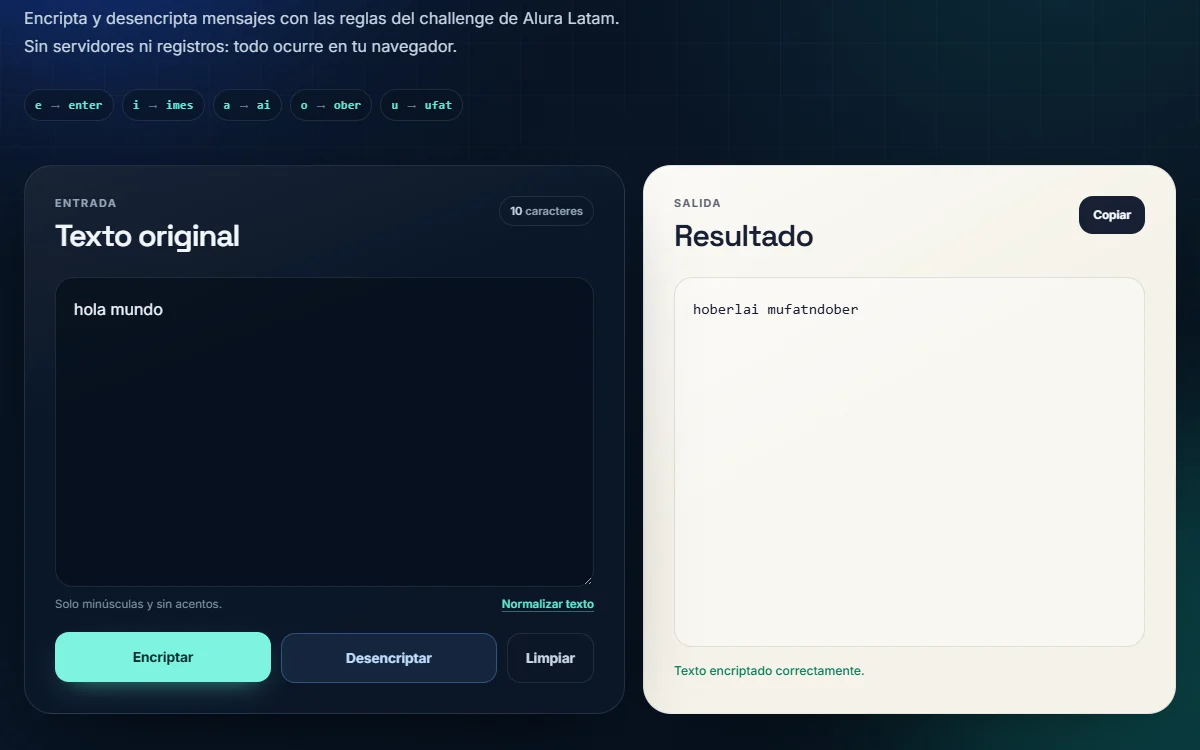
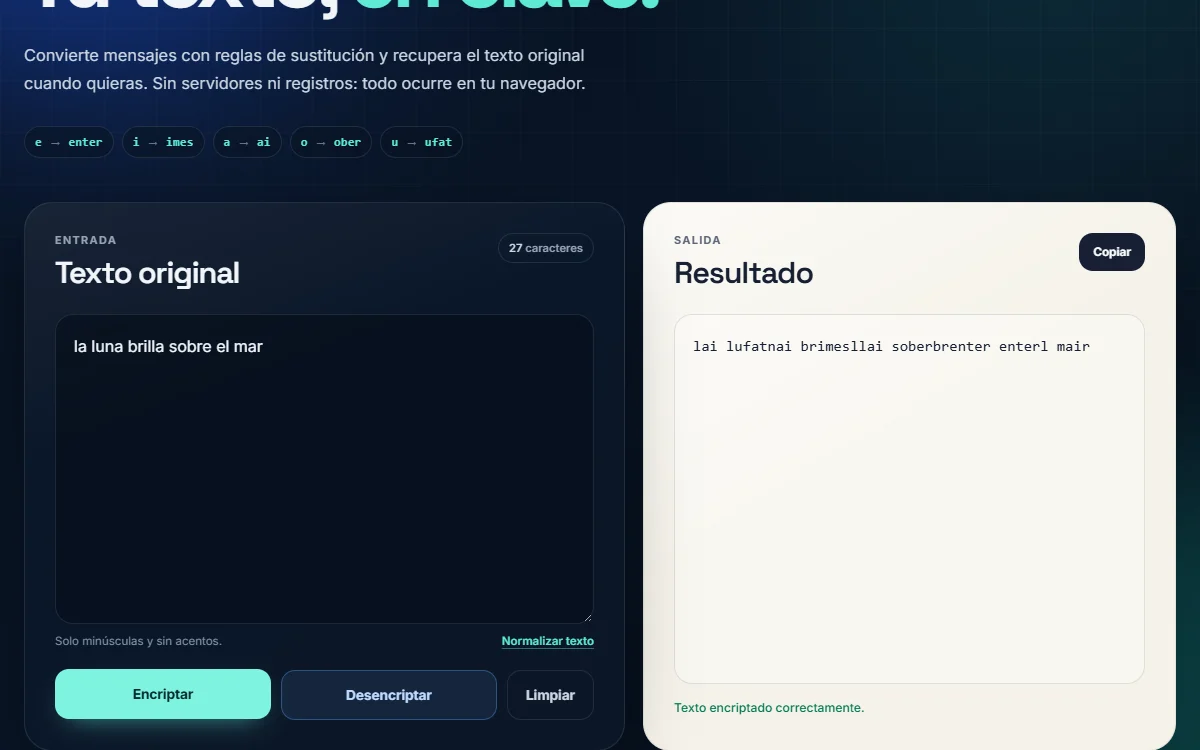
Update Encriptador demo URL and copy

diff --git a/docs/index.html b/docs/index.html
@@ -1363,10 +1363,10 @@
                   <span class="project-area">Desarrollo frontend</span>
                 </div>
                 <h3>Encriptador de texto</h3>
-                <p>Encriptador del challenge de Alura Latam con validación, normalización y copiado, en HTML, CSS y JavaScript.</p>
+                <p>Mini app en HTML, CSS y JavaScript para encriptar y desencriptar mensajes en el navegador, con validación, normalización, contador y copiado.</p>
                 <div class="project-tags"><span>HTML</span><span>CSS</span><span>JavaScript</span></div>
                 <div class="project-links">
-                  <a class="project-link" href="https://encriptador-de-texto-rho-nine.vercel.app" target="_blank" rel="noopener noreferrer">Demo <span aria-hidden="true">↗</span></a>
+                  <a class="project-link" href="https://encriptador-de-texto-jose-mondragons-projects.vercel.app" target="_blank" rel="noopener noreferrer">Demo <span aria-hidden="true">↗</span></a>
                   <a class="project-link" href="https://github.com/JCAM2327/Encriptador_de_texto" target="_blank" rel="noopener noreferrer">Repo <span aria-hidden="true">↗</span></a>
                 </div>
               </div>
